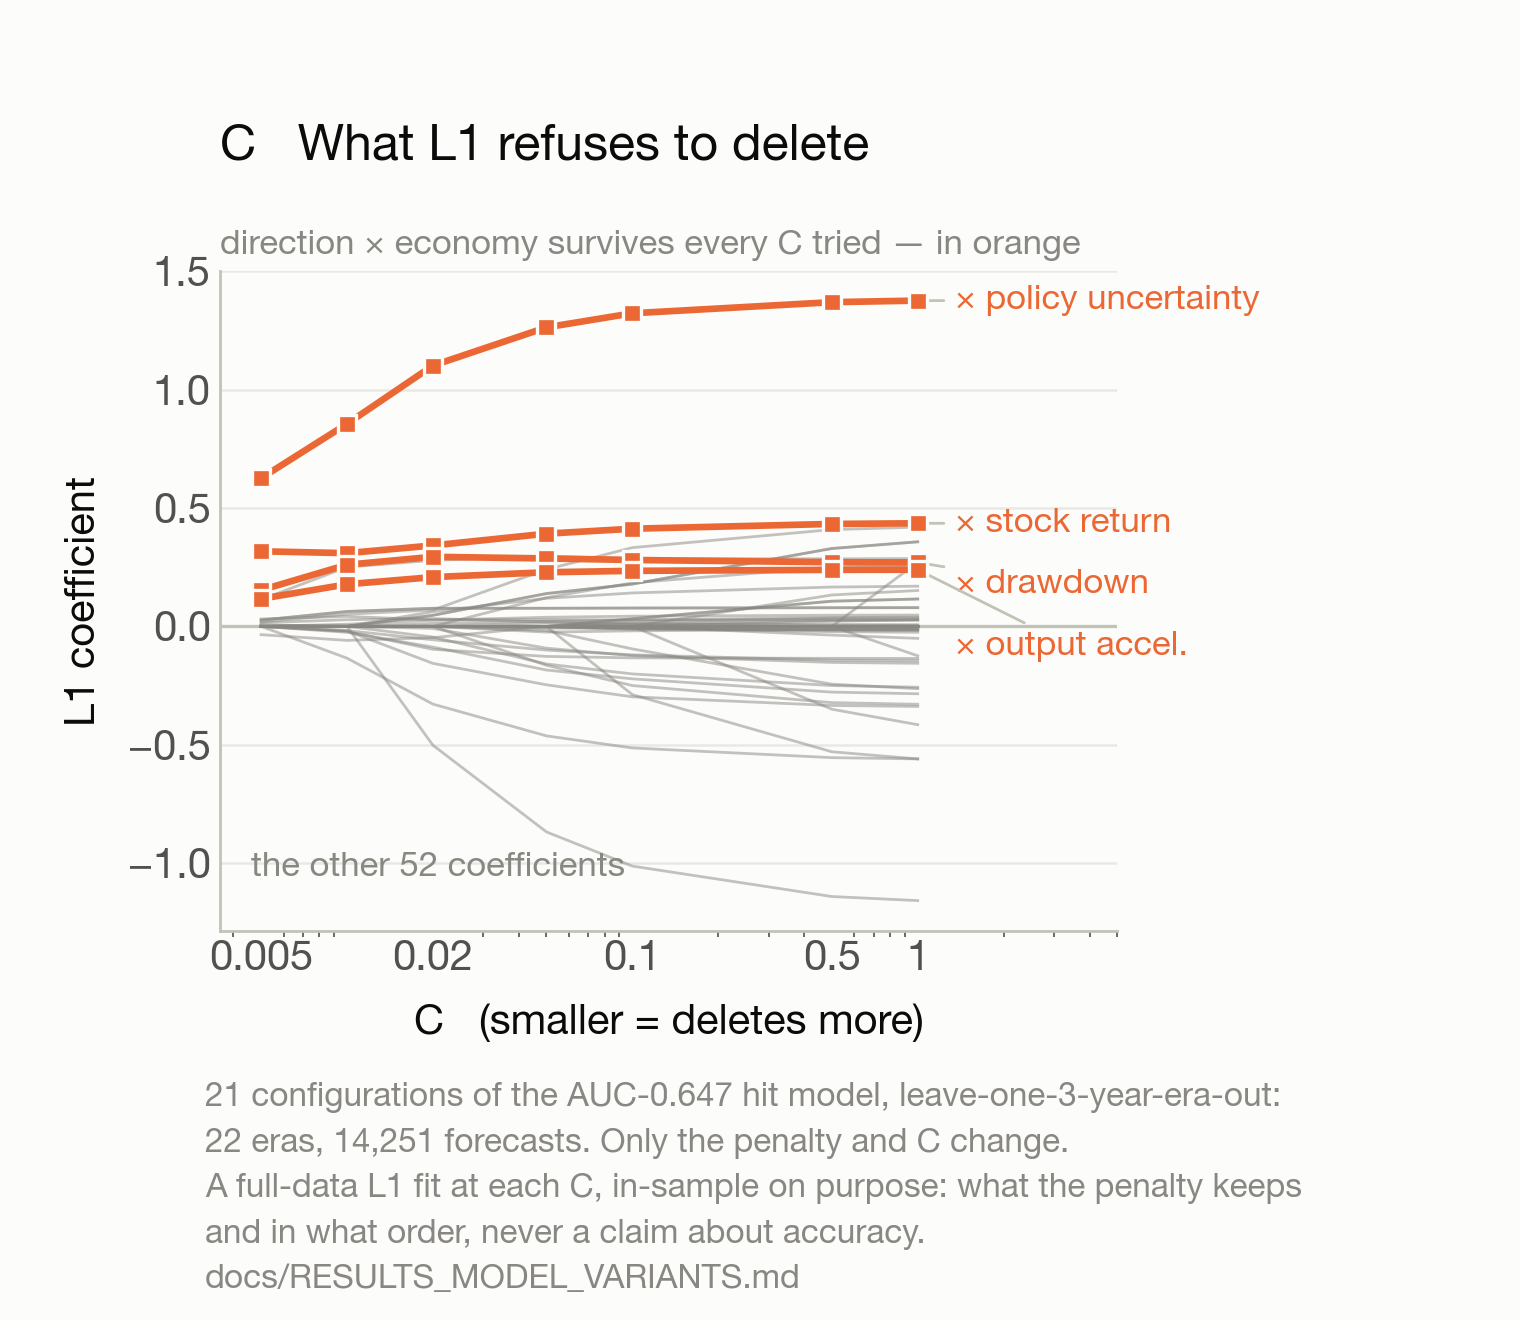
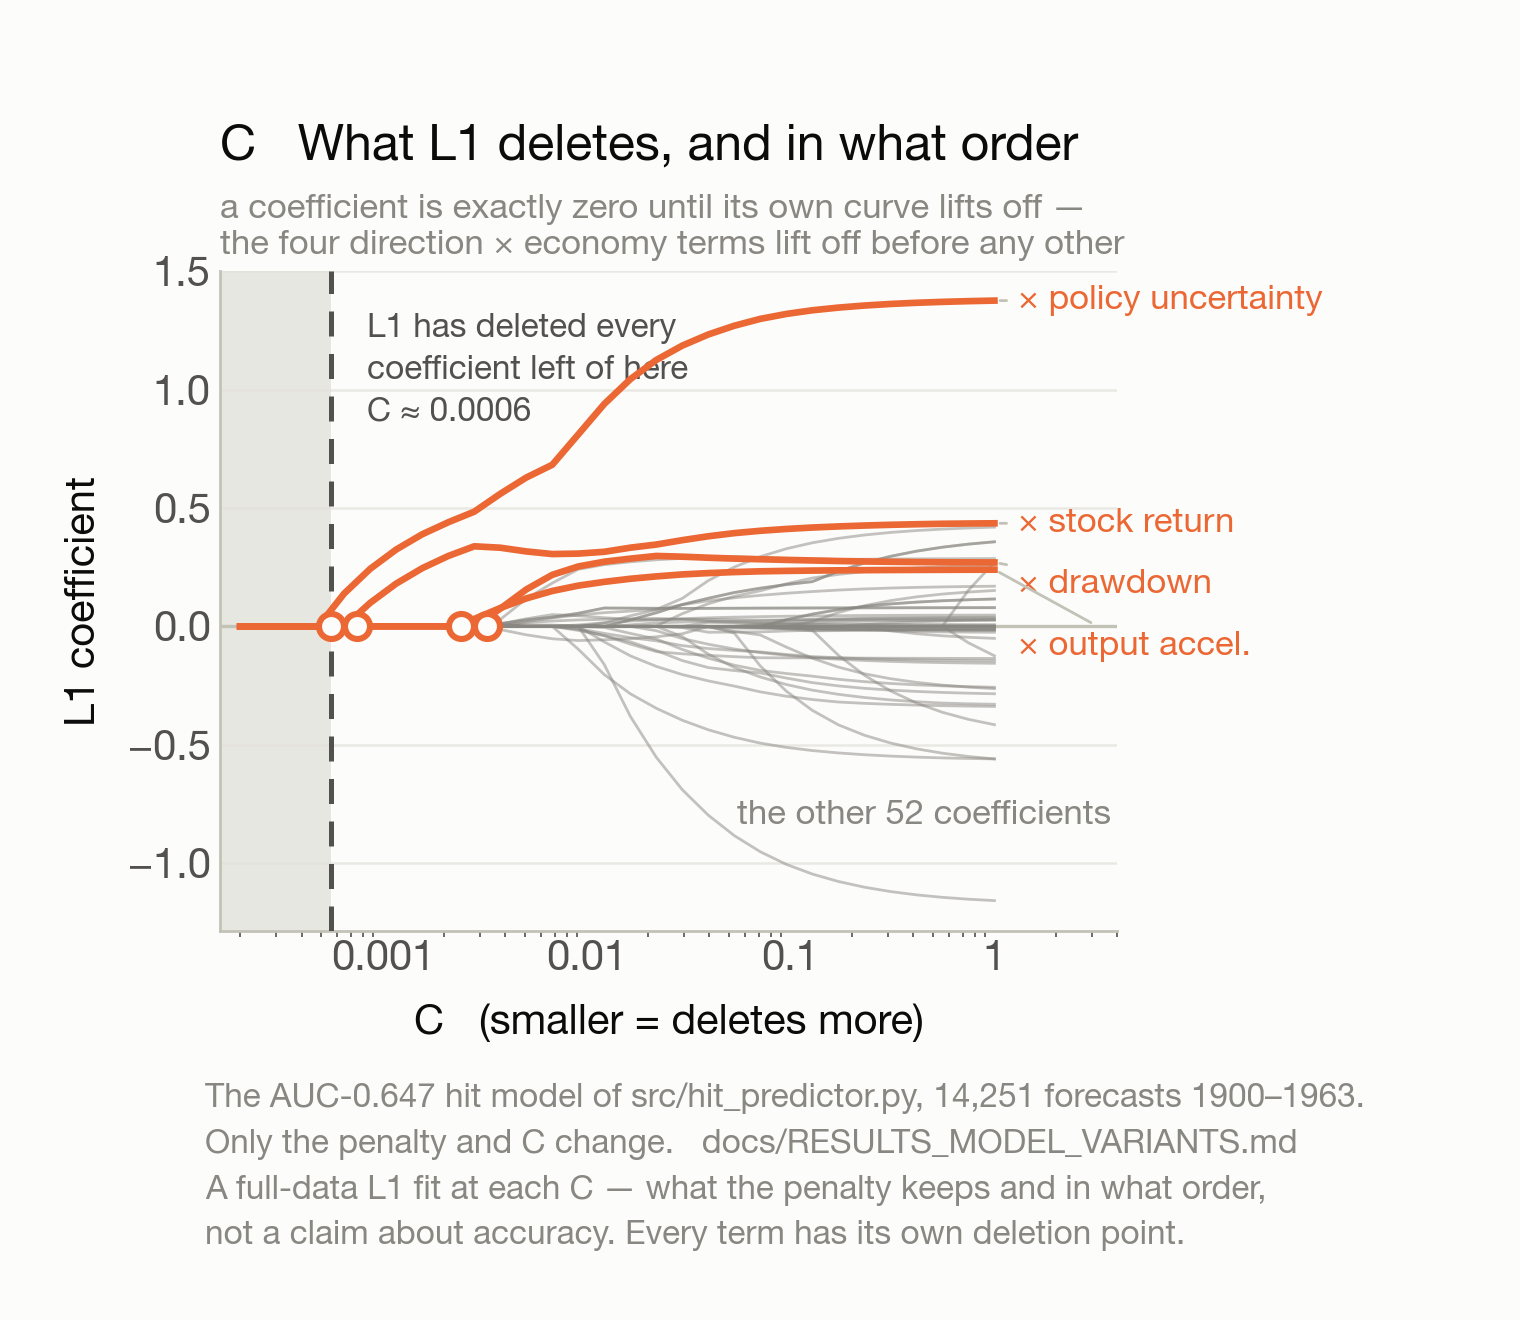
changes

diff --git a/src/make_regularization_figure.py b/src/make_regularization_figure.py
@@ -85,6 +85,16 @@ INCUMBENT = ("l2", 0.5)     # what hit_predictor.py actually ships
 # carry a marker at every fitted C, so nothing is hidden.
 XTICKS = [0.005, 0.02, 0.1, 0.5, 1.0]
 
+# Figure C runs on its own, much finer grid, and reaches an order of magnitude
+# further left than the evaluated grid. Both are deliberate. C_GRID's coarsest
+# step spans the whole event this figure is about -- c_direction_no_change is
+# zero at C=0.01 and -0.50 at C=0.02, so on that grid a term's entry point can
+# only be bracketed, never drawn. And every term is already alive at C=0.005,
+# so the evaluated range cannot show the ORDER in which they enter, which is
+# the one thing a coefficient path is for.
+PATH_GRID = list(np.exp(np.linspace(np.log(0.0002), np.log(1.0), 30)))
+C_XTICKS = [0.001, 0.01, 0.1, 1.0]
+
 # Where each page's text column starts, in figure coords -- titles and captions
 # align to this on all four, whatever the axes' own left margin has to be.
 NOTE_X = 0.135
@@ -97,6 +107,13 @@ D_TITLE_X = -0.246
 KEY_TERMS = {f"x_dir_{f}": n for f, n in [
     ("epu", "× policy uncertainty"), ("stock_ret6", "× stock return"),
     ("stock_drawdown", "× drawdown"), ("ip_accel", "× output accel.")]}
+
+# NOT highlighted, though it is the largest negative coefficient in the model
+# and the eye goes to it: c_direction_no_change. It is a big effect on a small
+# slice -- 400 of 14,251 claims, hit rate 0.180 against a 0.513 base -- and the
+# held-out permutation importance of the whole c_direction feature is 0.005 AUC
+# against x_dir_epu's 0.038. Drawing it in ink gave a term that moves the model
+# very little the same visual weight as the four that carry it.
 
 
 def style():
@@ -140,11 +157,17 @@ def l1_path(refit=False):
     DESCRIPTION of what the penalty keeps in what order, not an evaluation of
     it. The evaluation is figure A, which is out-of-fold."""
     if PATH_CACHE.exists() and not refit:
-        return pd.read_csv(PATH_CACHE, index_col=0)
+        cached = pd.read_csv(PATH_CACHE, index_col=0)
+        # A cache written against a different grid is silently the wrong figure,
+        # so the grid itself is the cache key.
+        if len(cached.columns) == len(PATH_GRID):
+            return cached
+        print(f"  [cached path has {len(cached.columns)} C values, "
+              f"grid wants {len(PATH_GRID)} -- refitting]")
     d, y, _ = MV.load()
     X, cat, num = MV.design(d)
     cols = {}
-    for C in MV.C_GRID:
+    for C in PATH_GRID:
         print(f"  L1 fit at C={C} ...", flush=True)
         pipe = HP.make_pipe(cat, num, clf=MV.clf_for("l1", C))
         pipe.fit(X, y)
@@ -225,6 +248,28 @@ def panel_b(ax, tab):
     clean(ax)
 
 
+def entry_c(path, name):
+    """The C at which a coefficient leaves zero for good.
+
+    Read from the right, where every term is alive, and walk left to the first
+    C at which this one is zero -- rather than the leftmost non-zero, because a
+    coefficient can flicker on, off and on again along a path. Returned as the
+    geometric midpoint of the bracketing pair, which is all the grid resolves;
+    the figure quotes it to one significant figure for the same reason."""
+    if name not in path.index:
+        return None
+    alive = path.loc[name].abs().values > 1e-8
+    cs = np.asarray(path.columns, dtype=float)
+    if not alive[-1]:
+        return None          # never enters, even at the weakest penalty tried
+    i = 0
+    for j in range(len(cs) - 1, -1, -1):
+        if not alive[j]:
+            i = j + 1
+            break
+    return None if i == 0 else float(np.sqrt(cs[i - 1] * cs[i]))
+
+
 def panel_c(ax, path):
     ax.grid(True, axis="y", lw=0.9, alpha=0.7)
     ax.set_axisbelow(True)
@@ -236,35 +281,64 @@ def panel_c(ax, path):
             continue
         ax.plot(cs, row.values, color=MUTED, lw=1.0, alpha=0.5, zorder=3)
 
-    # Three of the four land within 0.2 of each other at the right edge, so the
-    # labels are pulled apart vertically and each keeps a leader to its curve.
-    present = [(n, s) for n, s in KEY_TERMS.items() if n in path.index]
-    ends = sorted(present, key=lambda t: path.loc[t[0]].values[-1], reverse=True)
+    marked = [(n, s, ORANGE) for n, s in KEY_TERMS.items() if n in path.index]
+
+    # Several land within 0.2 of each other at the right edge, so the labels are
+    # pulled apart vertically and each keeps a leader to its curve.
+    ends = sorted(marked, key=lambda t: path.loc[t[0]].values[-1], reverse=True)
     label_y, floor = {}, None
-    for name, _ in ends:
+    for name, _, _ in ends:
         v = path.loc[name].values[-1]
         y = v if floor is None else min(v, floor - 0.26)
         label_y[name], floor = y, y
 
-    for name, nice in ends:
+    for name, nice, color in ends:
         v = path.loc[name].values
-        ax.plot(cs, v, color=ORANGE, lw=2.4, marker="s", markersize=6.5,
-                mec=SURFACE, mew=1.2, zorder=5)
-        ax.annotate(nice, xy=(cs[-1], v[-1]), xytext=(cs[-1] * 1.35, label_y[name]),
-                    color=ORANGE, fontsize=NOTE - 2, va="center", ha="left",
+        ax.plot(cs, v, color=color, lw=2.4 if color == ORANGE else 2.8,
+                zorder=5 if color == ORANGE else 6)
+        ax.annotate(nice, xy=(cs[-1], v[-1]), xytext=(cs[-1] * 1.30, label_y[name]),
+                    color=color, fontsize=NOTE - 2, va="center", ha="left",
                     arrowprops=dict(arrowstyle="-", color=AXIS, lw=1.0))
 
-    n_other = len(path.index) - len(present)
-    ax.text(cs[0] * 0.92, -1.02, f"the other {n_other} coefficients", color=MUTED,
-            fontsize=NOTE - 2, va="center", ha="left")
+    # --- the deletion line ----------------------------------------------------
+    # One line, and it is the only one that can be drawn for the panel as a
+    # whole: the C below which EVERY coefficient is zero. Per-term rules were
+    # tried and removed -- a full-height rule at one term's entry reads as this
+    # boundary, which is an order of magnitude away and means something else.
+    # Each term's own entry stays visible as the point where its curve lifts
+    # off zero, marked with a ring on the four highlighted ones.
+    lo, hi = ax.get_ylim()
+    for name, _, color in ends:
+        e = entry_c(path, name)
+        if e:
+            ax.plot([e], [0], "o", mfc=SURFACE, mec=color, mew=2.2,
+                    markersize=9, zorder=7)
+
+    e_all = min((c for c in (entry_c(path, n) for n in path.index)
+                 if c is not None), default=None)
+    x_lo = cs[0] * 0.80
+    if e_all:
+        ax.axvspan(x_lo, e_all, color=GRID, alpha=0.75, lw=0, zorder=1)
+        ax.axvline(e_all, color=INK2, lw=1.8, ls=(0, (5, 3.5)), zorder=4)
+        # No leader: the text sits against the rule already, and a leader drawn
+        # at the same height runs straight through its own label.
+        ax.text(e_all * 1.5, hi * 0.72,
+                f"L1 has deleted every\ncoefficient left of here\nC ≈ {e_all:.1g}",
+                color=INK2, fontsize=NOTE - 2.5, ha="left", va="center",
+                linespacing=1.45)
+
+    n_other = len(path.index) - len(marked)
+    ax.text(cs[-1] * 0.45, -0.80, f"the other {n_other} coefficients", color=MUTED,
+            fontsize=NOTE - 2, va="center", ha="center")
     ax.set_xscale("log")
-    ax.set_xticks(XTICKS)
-    ax.set_xticklabels([f"{c:g}" for c in XTICKS])
-    ax.set_xlim(cs[0] * 0.72, cs[-1] * 5.0)
+    ax.set_xticks(C_XTICKS)
+    ax.set_xticklabels([f"{c:g}" for c in C_XTICKS])
+    ax.set_xlim(x_lo, cs[-1] * 4.0)
     ax.set_xlabel("C   (smaller = deletes more)", fontsize=LABEL - 3, labelpad=9)
     ax.set_ylabel("L1 coefficient", fontsize=LABEL - 3, labelpad=9)
-    panel_title(ax, "C", "What L1 refuses to delete",
-                "direction × economy survives every C tried — in orange")
+    panel_title(ax, "C", "What L1 deletes, and in what order",
+                "a coefficient is exactly zero until its own curve lifts off —\n"
+                "the four direction × economy terms lift off before any other")
     clean(ax)
 
 
@@ -329,16 +403,16 @@ def panel_d(ax, dec):
 # Each figure now carries its own provenance, since none of them sits under a
 # shared caption any more. Two lines common to all four, then the one caveat
 # that figure specifically needs.
-COMMON = ("21 configurations of the AUC-0.647 hit model, leave-one-3-year-era-out:\n"
-          "22 eras, 14,251 forecasts. Only the penalty and C change.\n")
+COMMON = ("The AUC-0.647 hit model of src/hit_predictor.py, 14,251 forecasts 1900–1963.\n"
+          "Only the penalty and C change.   docs/RESULTS_MODEL_VARIANTS.md\n")
 
 # name, drawing function, which table it reads, axes margins, its own caveat.
 # D gets a wide left gutter: its y labels are two- and three-line era counts.
 PAGES = [
     ("a_penalty_auc", panel_a, "tab",
      dict(left=0.145, right=0.965, top=0.795, bottom=0.295),
-     "The whole grid spans 0.012 of AUC and the block-bootstrap interval on the\n"
-     "headline alone is ±0.07 — read for shape, not for a winner. Out-of-fold."),
+     "Out-of-fold, leave-one-3-year-era-out over 22 eras. The grid spans 0.012 of\n"
+     "AUC; the interval on the headline alone is ±0.07 — read for shape, not a winner."),
     ("b_sparsity", panel_b, "tab",
      dict(left=0.145, right=0.965, top=0.795, bottom=0.295),
      "Survivor counts are a full-data fit at each C — a description of what the\n"
@@ -347,13 +421,12 @@ PAGES = [
     # past the last fitted C and used to spill into the old sheet's column gap.
     ("c_l1_path", panel_c, "path",
      dict(left=0.145, right=0.735, top=0.795, bottom=0.295),
-     "A full-data L1 fit at each C, in-sample on purpose: what the penalty keeps\n"
-     "and in what order, never a claim about accuracy.\n"
-     "docs/RESULTS_MODEL_VARIANTS.md"),
+     "A full-data L1 fit at each C — what the penalty keeps and in what order,\n"
+     "not a claim about accuracy. Every term has its own deletion point."),
     ("d_within_era", panel_d, "dec",
      dict(left=0.300, right=0.970, top=0.795, bottom=0.295),
-     "Pooled = one AUC over all 22 eras' held-out predictions. Within-era = the\n"
-     "size-weighted mean of the 22 per-era deltas. Out-of-fold."),
+     "Out-of-fold, 22 eras. Pooled = one AUC over all eras' held-out predictions;\n"
+     "within-era = the size-weighted mean of the 22 per-era deltas."),
 ]
 
 
